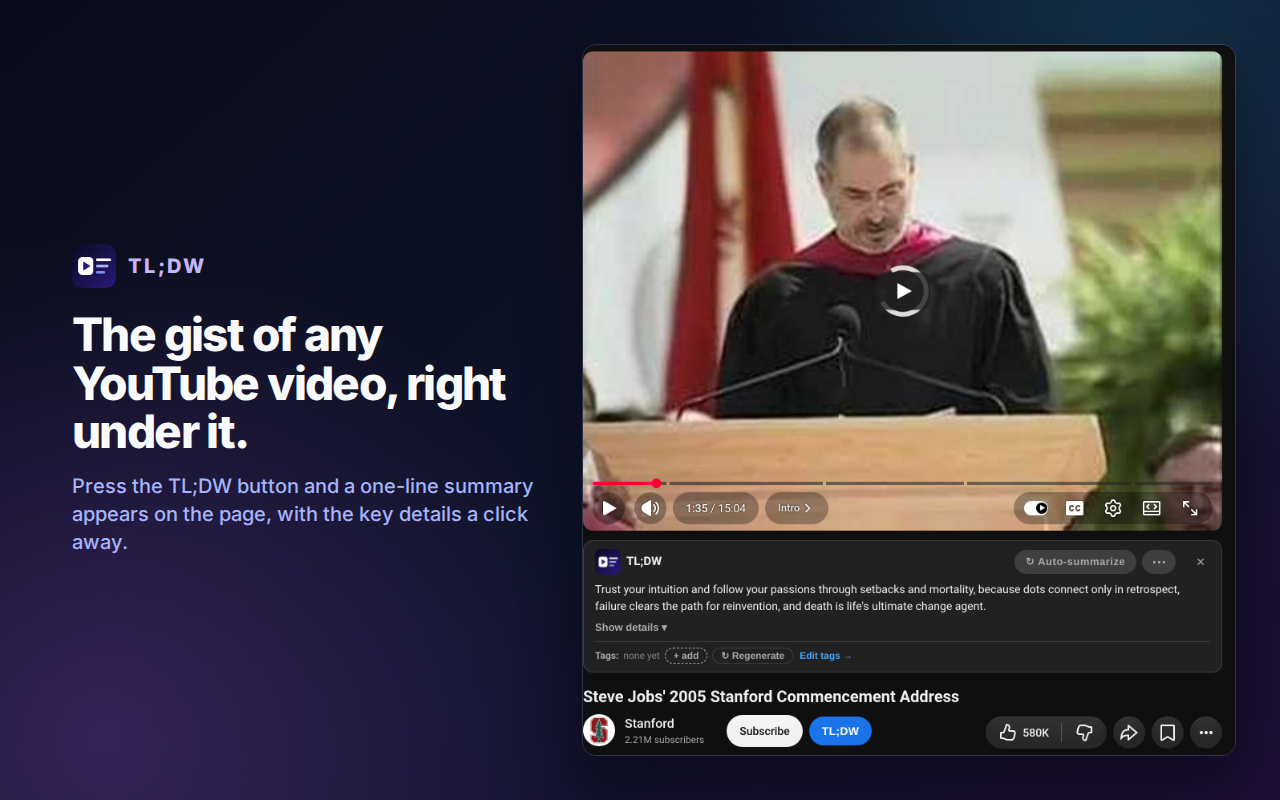
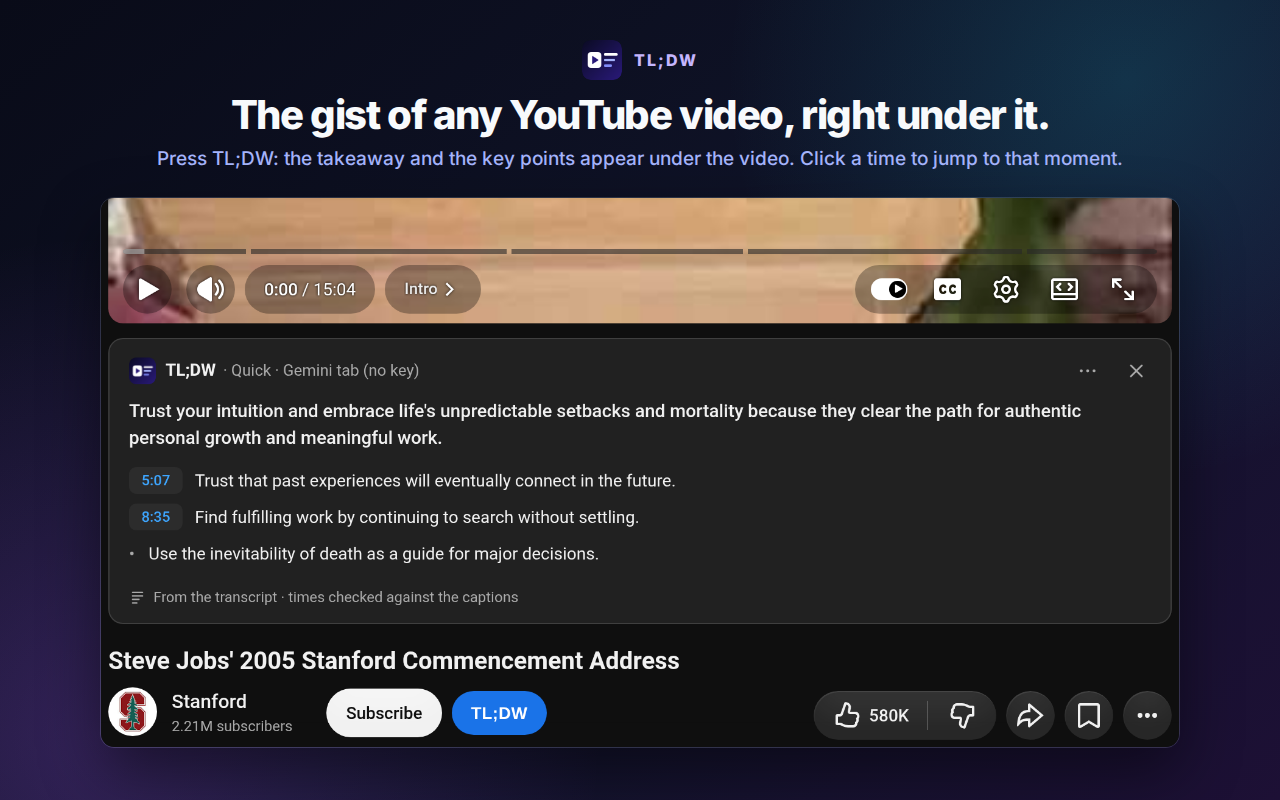
docs: the store listing and screenshots for 1.4.0 (#55)
The Chrome Web Store listing, screenshots, promo tile and marquee for 1.4.0, with OWNER-TODO and STATUS brought up to date.

diff --git a/docs/STORE_SUBMISSION.md b/docs/STORE_SUBMISSION.md
@@ -1,6 +1,6 @@
 # Chrome Web Store Submission Guide
 
-This is the source for the TL;DW Chrome Web Store listing (updated for v1.2.1, 2026-11-09).
+This is the source for the TL;DW Chrome Web Store listing (updated for v1.4.0, 2026-11-09).
 Each field is in its own block; copy the text inside the block.
 The owner's step-by-step checklist is item 3 in [OWNER-TODO.md](../OWNER-TODO.md).
 
@@ -9,7 +9,7 @@ The owner's step-by-step checklist is item 3 in [OWNER-TODO.md](../OWNER-TODO.md
 Build from a clean checkout of the release tag, without changing the version, then validate:
 
 ```bash
-git checkout v1.2.1 && npm ci
+git checkout v1.4.0 && npm ci
 npm run package            # web-store/tldw-<version>.zip
 npm run validate:package   # manifest at the root, base hosts only, no source maps or keys
 ```
@@ -27,7 +27,7 @@ TL;DW: YouTube Summaries with Gemini
 At least six store items are already called TLDW or TL;DW, so the listing name says what it does.
 Everywhere inside the extension it is still TL;DW.
 
-### Summary (comes from the manifest description, 107 of 132 characters)
+### Summary (comes from the manifest description, 112 of 132 characters)
 
 ```
 Too Long; Didn't Watch: summarize any YouTube video right on the page with Gemini, with or without your own key.
@@ -38,20 +38,26 @@ Too Long; Didn't Watch: summarize any YouTube video right on the page with Gemin
 ```
 Get the point of a YouTube video without watching all of it.
 
-Press the blue TL;DW button under any video and a summary appears right on the page: one line with the main takeaway, and the key details a click away.
+Press the blue TL;DW button under any video and the summary appears right on the page: the main takeaway, and the key points under it. When a point comes with a time, click it to jump to that moment. TL;DW shows a time only after checking that the words it cites are really said there.
 
-It works with no setup. TL;DW opens Gemini in a background tab, with the Google account you already use there (or none), and brings Gemini's answer back to the video.
+Pick the style that fits the video:
+- Quick: the takeaway and three key points.
+- Research: the video's claims, how it backs each one, and what it leaves out.
+- Learning: the key ideas as cards, and questions to test yourself.
+- Tutorial: numbered steps, and what you need first.
+Switch styles from the panel, or give a channel its own: a cooking channel as Tutorial, a lecture channel as Learning.
+
+It works with no setup. TL;DW asks Gemini in a background tab, with the Google account you already use there (or none), and brings the answer back to the video.
 For summaries in seconds with no extra tab, add your own free Gemini API key. It takes about two minutes in Google AI Studio, and TL;DW walks you through it.
-With a key, long videos are summarized from the whole transcript, and Gemini can watch videos that have no captions.
+Either way Gemini reads the video's transcript, a long one in full. With a key, Gemini can also watch videos that have no captions.
 
 Not sure yet? "See an example summary" on the welcome page shows a real summary TL;DW made, with no key and no setup.
 
-What you can do:
+More:
 - Summarize with a click, the keyboard shortcut (Alt+Shift+G), or the right-click menu.
-- Pick a prompt profile: the short TL;DW, research notes, a learning brief, a tutorial brief, or the best moments to watch. Edit them or write your own.
 - Ask a specific question about the video.
 - Summarize long videos, or chosen channels, automatically.
-- Tag videos and channels, and find past summaries in your history.
+- Find past summaries in your history.
 - Optionally skip community-reported sponsor segments with SponsorBlock (off by default).
 
 Private by design:
@@ -80,10 +86,10 @@ English (United States)
 - Store icon (128x128): `store-icon-128.png`.
 - Screenshots (1280x800), in this order:
   1. `01-summary-on-the-page-1280x800.png`
-  2. `02-key-details-1280x800.png`
-  3. `03-works-with-no-setup-1280x800.png`
-  4. `04-example-summary-1280x800.png`
-  5. `05-prompt-profiles-1280x800.png`
+  2. `02-styles-that-look-different-1280x800.png`
+  3. `03-learn-and-check-yourself-1280x800.png`
+  4. `04-one-menu-away-1280x800.png`
+  5. `05-works-with-no-setup-1280x800.png`
 - Small promo tile (440x280): `promo-tile-440x280.png`.
 - Marquee promo tile (1400x560, optional): `marquee-1400x560.png`.
 
@@ -99,7 +105,7 @@ English (United States)
 ### Single purpose description
 
 ```
-TL;DW summarizes the YouTube video you are watching. When you ask, it sends the video's transcript (or its link) with a summary prompt to Google's Gemini, either the Gemini web app in a tab or the Gemini API with your own key, and shows the summary on the YouTube page. Prompt profiles, tags, history, caching and the optional sponsor-segment skipping all serve that one purpose.
+TL;DW summarizes the YouTube video you are watching. When you ask, it sends the video's transcript (or its link) with a summary prompt to Google's Gemini, either the Gemini web app in a tab or the Gemini API with your own key, and shows the summary on the YouTube page. Summary styles, history, caching and the optional sponsor-segment skipping all serve that one purpose.
 ```
 
 ### Permission justifications
@@ -107,7 +113,7 @@ TL;DW summarizes the YouTube video you are watching. When you ask, it sends the 
 storage:
 
 ```
-Saves the user's settings, prompt profiles, tags, local summary history, a cache of parsed summaries, the user's own Gemini API key, usage counters, and the short-lived prompt waiting for the Gemini tab. Everything stays in Chrome on the device.
+Saves the user's settings, summary styles and each channel's style, local summary history, a cache of parsed summaries, the user's own Gemini API key, usage counters, and the short-lived prompt waiting for the Gemini tab. Everything stays in Chrome on the device.
 ```
 
 contextMenus:
@@ -187,7 +193,7 @@ How to test, no account or key needed:
 1. Install TL;DW. A welcome page opens.
 2. Click "See an example summary" to see a real summary TL;DW made, shipped with the extension. This page needs no key and sends nothing.
 3. Open https://www.youtube.com/watch?v=UF8uR6Z6KLc and press the blue TL;DW button under the video (next to Subscribe), or press Alt+Shift+G.
-4. TL;DW opens Gemini (gemini.google.com) in a background tab, sends the prompt there and, after about 10 to 60 seconds, shows the summary under the video. Being signed in to Google is optional. "Show details" expands it.
+4. TL;DW opens Gemini (gemini.google.com) in a background tab, sends the prompt there and, after about 10 to 60 seconds, shows the summary under the video: the takeaway and key points, with times you can click. Being signed in to Google is optional for this video, which has captions. The ⋯ menu on the summary switches between the Quick, Research, Learning and Tutorial styles.
 
 With a Gemini API key (optional, free at https://aistudio.google.com/apikey): open TL;DW's settings, go to Direct API, paste the key and save. TL;DW verifies it and turns Direct API on; summaries then appear in a few seconds with no extra tab.
 

diff --git a/STATUS.md b/STATUS.md
@@ -1,23 +1,23 @@
 # TL;DW Extension Status
 
-**Version:** 1.1.3
-**Last updated:** November 2, 2026
+**Version:** 1.4.0
+**Last updated:** November 9, 2026
 
-TL;DW 1.0 is being prepared as an Unlisted Chrome Web Store soft launch centered on bring-your-own-key Gemini access.
+TL;DW is being prepared as an Unlisted Chrome Web Store soft launch: Gemini only, with your own free key or with no key at all.
 
 ## Implemented
 
-- Direct API summaries default to Gemini 3.5 Flash-Lite and retry once on Gemini 3.1 Flash-Lite after a 429; a model picker offers larger models.
-- TL;DW decides how to send a video before sending it: the API gets the whole transcript, or watches a video without one (API video input).
-  Without a key, a transcript too long for the Gemini tab goes as its start and end and a video without a transcript goes as its link, each labeled on the summary (signed-out Gemini doesn't watch videos, so it uses public info); ChatGPT and Claude ask before a long transcript is shortened.
-- Signed in to Gemini, a long or unread-but-captioned video goes to the Gemini tab as its link, and Gemini reads the captions through YouTube (labeled so).
-- The no-key Gemini tab is read back even while it stays in the background (1.1.1).
 - TL;DW is Gemini-only since 1.4 (docs/DECISIONS.md): the Gemini API with your own key, or the Gemini tab without one.
+- With a key, summaries default to Gemini 3.5 Flash-Lite and retry once on Gemini 3.1 Flash-Lite after a 429; a model picker offers larger models.
+- Transcript first in both modes (docs/DECISIONS.md): the transcript goes as one "[m:ss] text" line per caption.
+  A long one goes whole: in up to 12 messages to the Gemini tab, or as notes per part with the API; only beyond about six hours in the tab is it sent as its start and end, labeled so.
+- Without a transcript: with a key the API watches the video (in two-hour stretches when longer than 2.5 hours); without one the Gemini tab gets the link only when signed in, and signed out the page asks the user to sign in.
+- The no-key Gemini tab is read back even while it stays in the background.
+- Four built-in profiles with their own layouts: Quick, Research, Learning, Tutorial. Moment Finder is gone; custom profiles pick a layout.
+- A time is shown only when the model's quoted words are in the captions within 15 seconds of it; a link-based summary never shows times.
+- The panel: header with the style and mode, a ⋯ menu (Regenerate, Copy, Open in Gemini, Style, the channel's style, Auto-summarize, Settings) and a quiet source line.
+- The style for a run: the one picked for it, then the channel's default style, then the default profile. Tags are labels on the Channels page and no longer change prompts.
 - A first install opens a welcome page with the free-key steps; SponsorBlock is the one optional host permission and is off by default.
-- Automatic Direct API runs use the configured Direct API profile.
-- Popup inline runs preserve the popup-selected profile.
-- Manual on-page runs use the global default profile.
-- Prompt construction, history, call metadata, and cache context use the same resolved profile.
 - Summary caching is prompt-aware and owned by the background worker.
 - Cache variants include the video, SHA-256 prompt fingerprint, parsed summary, profile, model or destination, and timestamp.
 - Passive navigation shows the newest cached variant and identifies its profile.
@@ -35,23 +35,19 @@ TL;DW 1.0 is being prepared as an Unlisted Chrome Web Store soft launch centered
 
 ## Product scope
 
-TL;DW produces SUMMARY and DETAILS shaped by profiles, tags, and optional questions.
+TL;DW produces a takeaway and the points its profile's layout asks for, shaped by the profile and an optional question.
 It does not track watch time or engagement and does not produce a built-in rating or WATCH/SKIM/SKIP verdict.
 Summary-centric history and activity remain local.
 SponsorBlock skipping remains optional and off by default; turning it on asks for the `sponsor.ajay.app` permission.
 
 ## Verification status
 
-- A clean `npm ci` passes on Node 20.19 or newer.
 - Typecheck and ESLint pass.
-- All 87 unit tests pass.
-- All nine built-extension Playwright scenarios pass.
-- The non-bumping Vite production build passes.
-- Full `npm audit` reports zero vulnerabilities.
-- Store package validation passes for `web-store/tldw-1.0.0.zip`.
-- The packaged root manifest reports version 1.0.0.
-- The required 1280 by 800 screenshot and 440 by 280 promotional tile exist in `store-assets/`.
-- Real-key verification passed for the current 1.0.0 candidate using the saved local key; it remains an environment-specific manual check because no secret key is committed to the repository.
+- All 177 unit tests and all 73 built-extension Playwright scenarios pass, including axe WCAG AA checks of the panel (light and dark), the popup and the options pages.
+- Real YouTube, signed-out Gemini, no key: all four styles on 3Blue1Brown, a 1-hour talk sent whole in 3 parts, and the sign-in message for a video without captions (9 Nov 2026).
+- `npm audit --omit=dev` reports zero vulnerabilities; seven moderate dev-only findings come from minimatch under typescript-eslint and wait for its next release.
+- Store package validation passes for `web-store/tldw-1.4.0.zip` (manifest 1.4.0, permissions storage, contextMenus and clipboardWrite).
+- Real-key verification remains an environment-specific manual check because no secret key is committed to the repository.
 - Chrome Web Store upload and Unlisted submission remain manual because they require the publisher account.
 
 ## Known follow-up

diff --git a/OWNER-TODO.md b/OWNER-TODO.md
@@ -5,7 +5,7 @@ Agents keep this list current; tick an item by changing `[ ]` to `[x]` and addin
 No secrets go in this file: keys live in pass-env, and this file names only the entries.
 The cross-project list of keys to rotate is `SECURITY-TODO.md` in the private [secret-handling-review](https://github.com/n8watkins/secret-handling-review/blob/main/SECURITY-TODO.md) repo.
 
-Last checked: 2026-11-09 (version 1.2.1).
+Last checked: 2026-11-09 (version 1.4.0).
 
 ## 1. Test the real Gemini API
 
@@ -62,7 +62,7 @@ The decision whether the transcript reader needs more work before the store laun
 
 ## 3. Publish to the Chrome Web Store (Unlisted)
 
-- [ ] TL;DW 1.2.1 is submitted with Unlisted visibility.
+- [ ] TL;DW 1.4.0 is submitted with Unlisted visibility.
 
 **What.**
 Register as a Chrome Web Store developer and submit the extension.
@@ -74,7 +74,7 @@ Register as a Chrome Web Store developer and submit the extension.
 3. Open https://chrome.google.com/webstore/devconsole, accept the developer agreement and pay the one-time $5 fee.
 4. In account settings, set the publisher name, then add and verify the contact email.
 5. Declare non-trader (a free personal project) or trader (published as a business; the store then shows your business contact details to EU users).
-6. Add a new item and upload `web-store/tldw-1.2.1.zip` (ask Claude to rebuild it from the `v1.2.1` tag if it is missing).
+6. Add a new item and upload `web-store/tldw-1.4.0.zip` (ask Claude to rebuild it from the `v1.4.0` tag if it is missing).
 7. Paste every field from [docs/STORE_SUBMISSION.md](docs/STORE_SUBMISSION.md) and upload the images in `store-assets/`.
 8. Privacy policy URL: https://n8builds.dev/privacy/tldw once it is live, else https://github.com/n8watkins/tl-dw/blob/master/PRIVACY.md
 9. Set visibility to **Unlisted** and submit.
